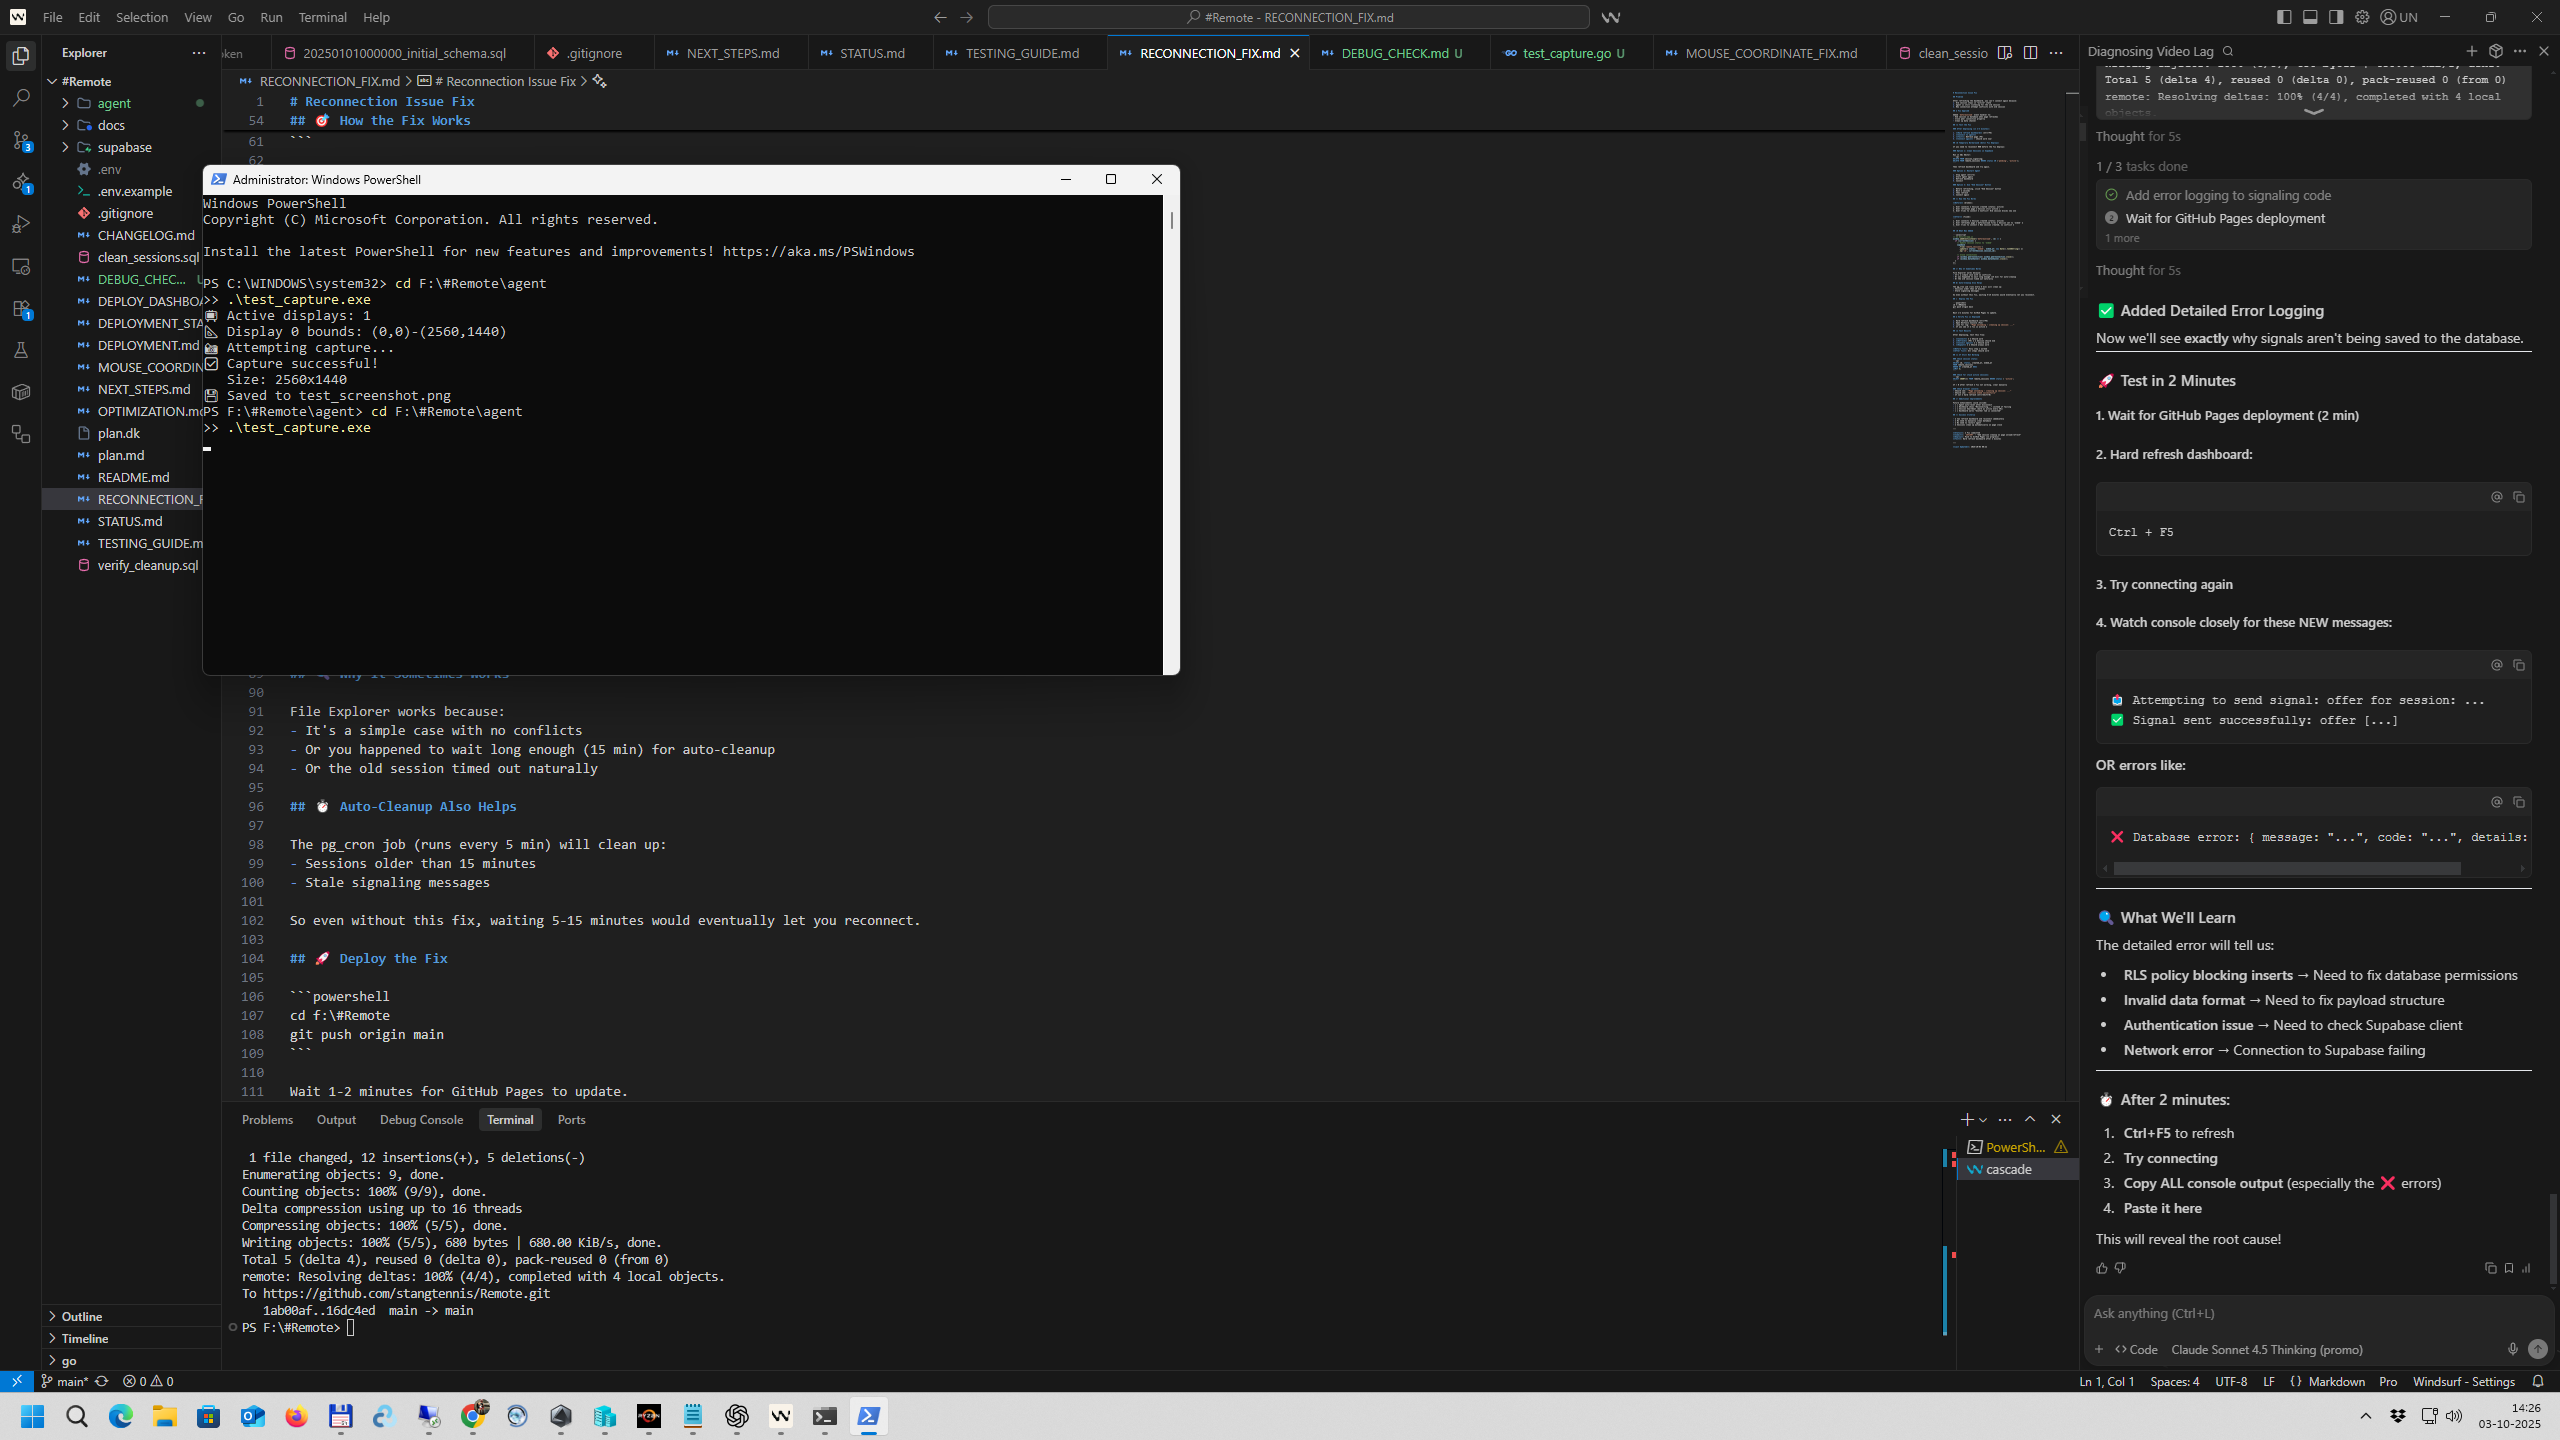
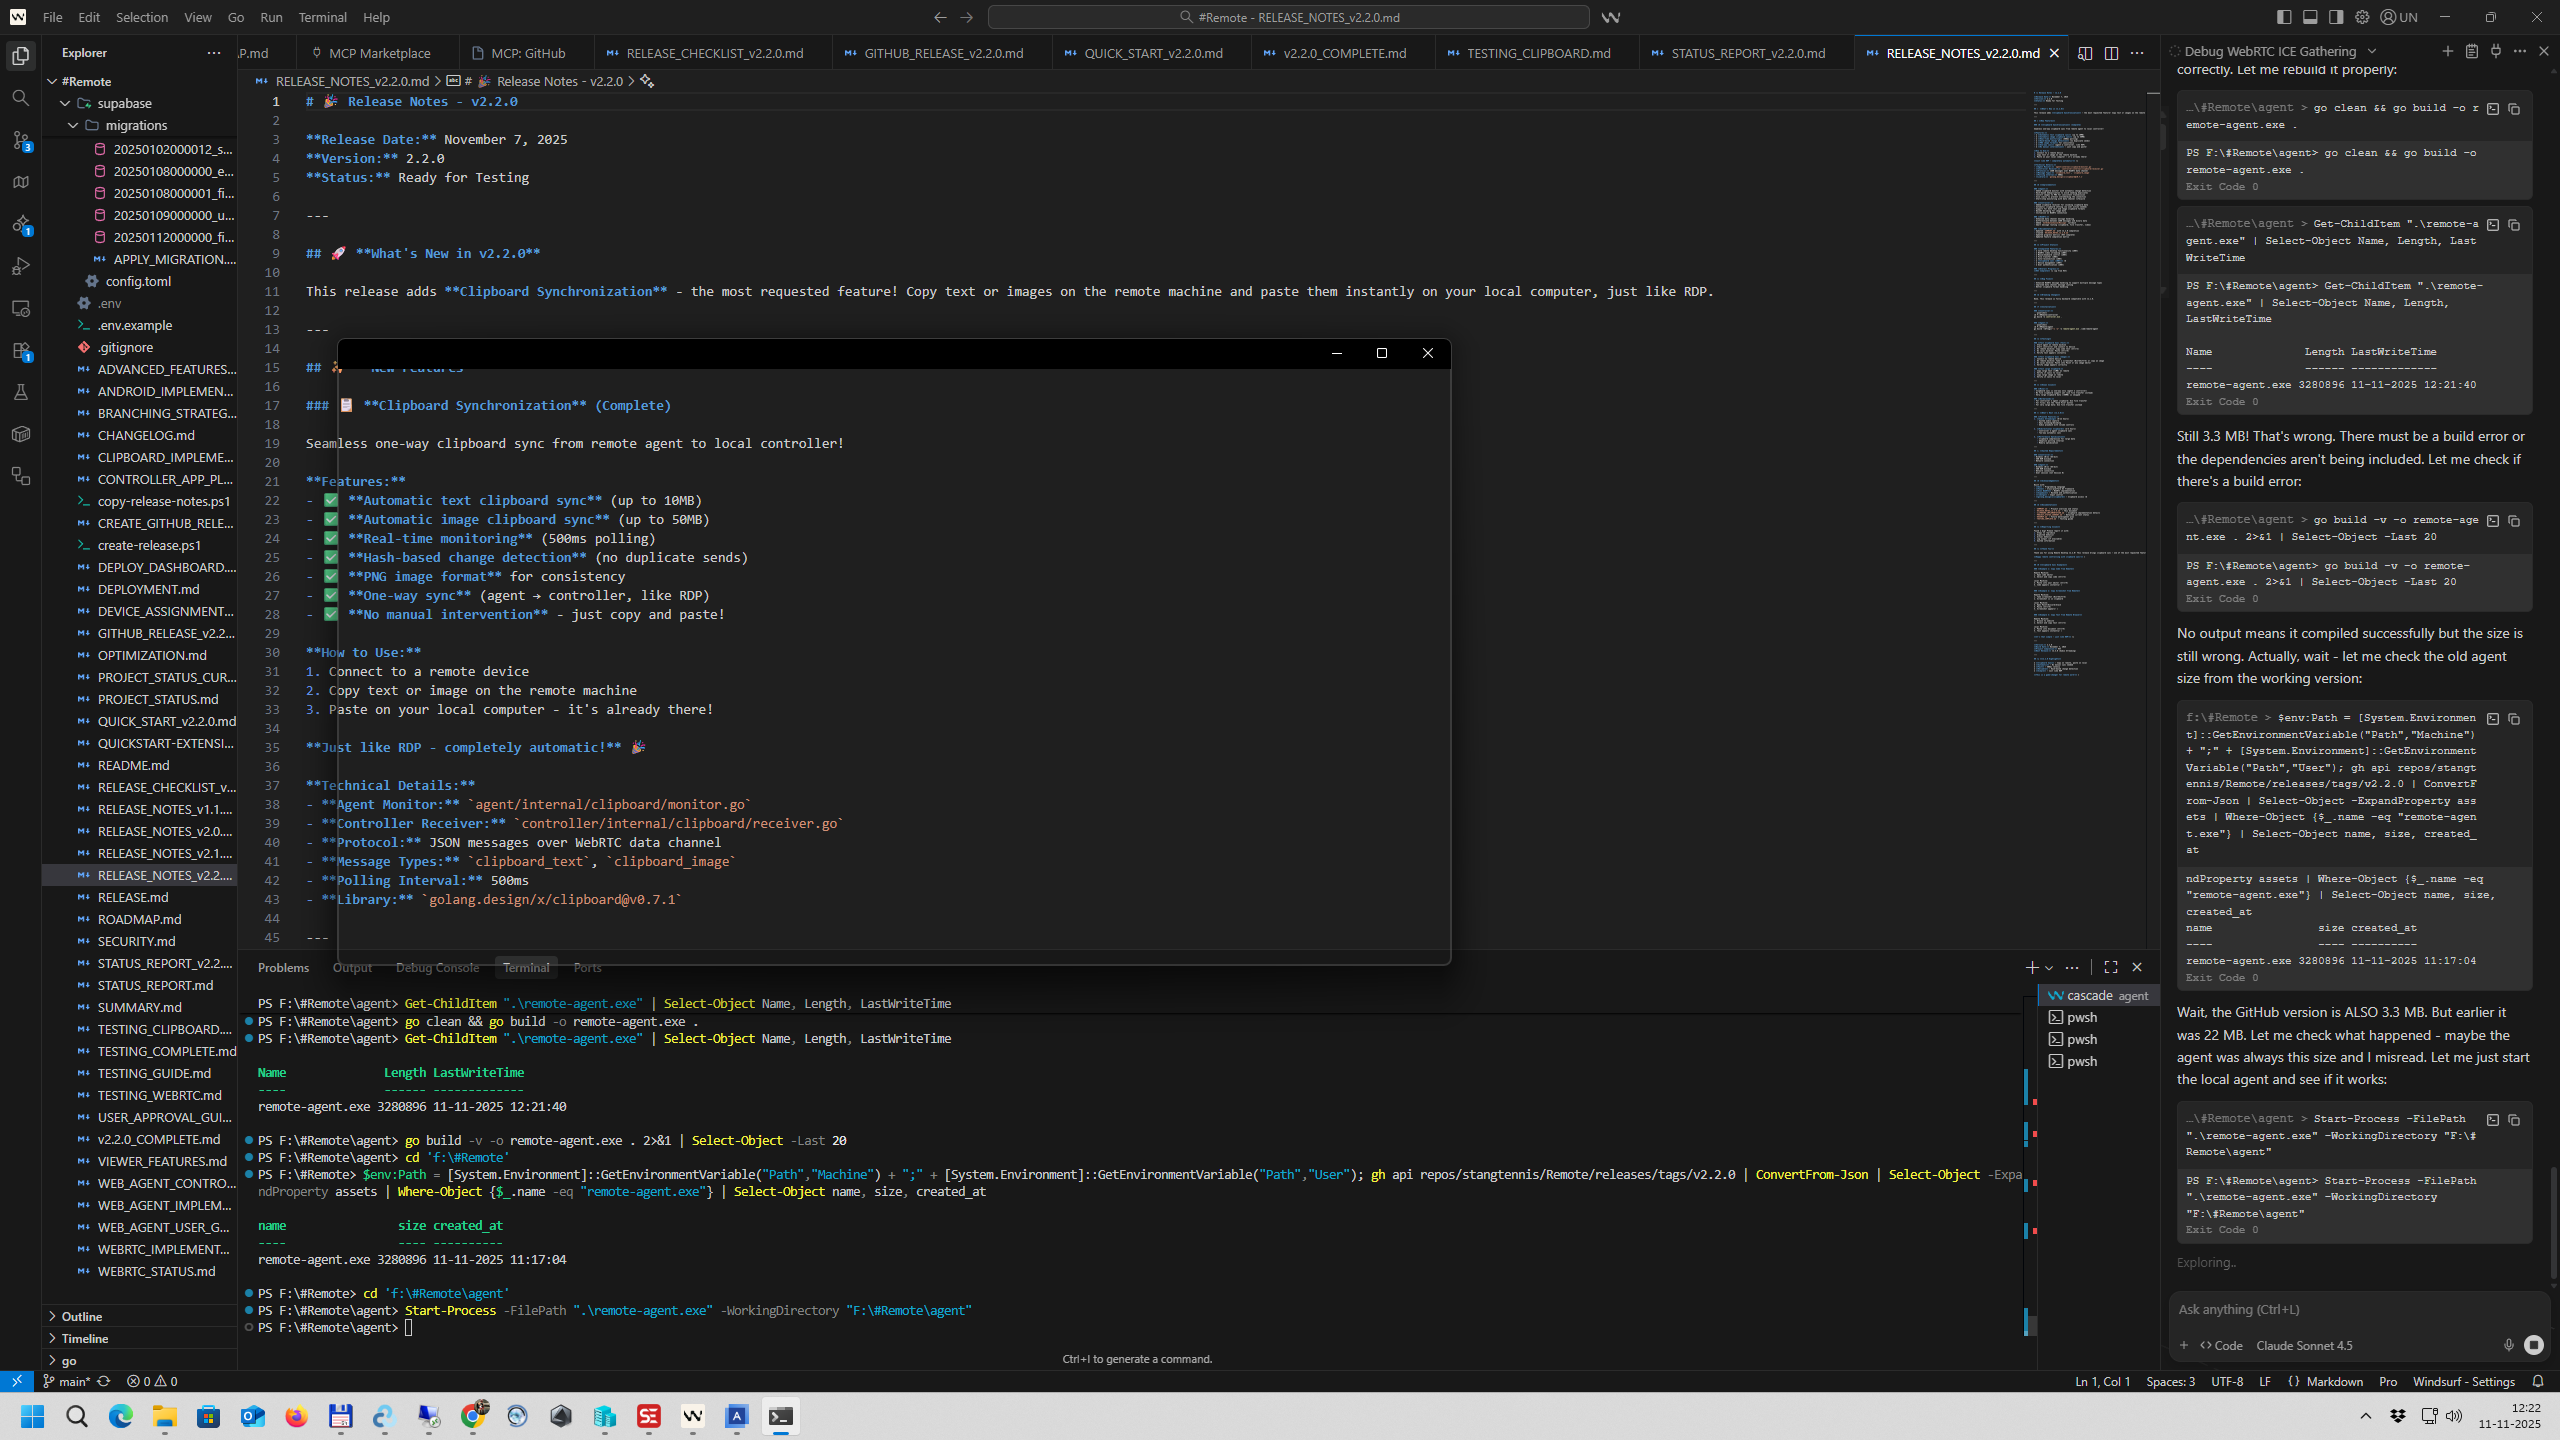
Fix WebRTC handshake: marshal answer to JSON, add data channel debug logging

diff --git a/controller/internal/webrtc/client.go b/controller/internal/webrtc/client.go
@@ -114,6 +114,29 @@ func (c *Client) CreateOffer() (string, error) {
 	}
 	c.dataChannel = dc
 	
+	// Add OnOpen handler to see when the channel opens
+	dc.OnOpen(func() {
+		log.Println("📡 Data channel OPENED (controller side)")
+	})
+	
+	// Add OnMessage handler
+	dc.OnMessage(func(msg webrtc.DataChannelMessage) {
+		log.Printf("📥 Received data on channel: %d bytes", len(msg.Data))
+		// Try to parse as JSON first (for clipboard and other messages)
+		var jsonMsg map[string]interface{}
+		if err := json.Unmarshal(msg.Data, &jsonMsg); err == nil {
+			// It's a JSON message (clipboard, file transfer, etc.)
+			if c.onDataChannelMessage != nil {
+				c.onDataChannelMessage(msg.Data)
+			}
+		} else {
+			// It's binary data (JPEG frame)
+			if c.onFrame != nil {
+				c.onFrame(msg.Data)
+			}
+		}
+	})
+	
 	log.Println("📡 Data channel created")
 
 	offer, err := c.peerConnection.CreateOffer(nil)
@@ -136,6 +159,7 @@ func (c *Client) CreateOffer() (string, error) {
 	// Get the complete offer with all ICE candidates
 	completeOffer := c.peerConnection.LocalDescription()
 	log.Printf("📊 Complete offer SDP length: %d", len(completeOffer.SDP))
+	log.Printf("📊 Full SDP:\n%s", completeOffer.SDP)
 	
 	offerJSON, err := json.Marshal(completeOffer)
 	if err != nil {
@@ -151,8 +175,12 @@ func (c *Client) SetAnswer(answerJSON string) error {
 		return fmt.Errorf("peer connection not initialized")
 	}
 
+	log.Printf("📥 Received answer length: %d", len(answerJSON))
+	log.Printf("📥 First 100 chars: %.100s", answerJSON)
+
 	var answer webrtc.SessionDescription
 	if err := json.Unmarshal([]byte(answerJSON), &answer); err != nil {
+		log.Printf("❌ Failed to unmarshal. Full answer: %s", answerJSON)
 		return fmt.Errorf("failed to unmarshal answer: %w", err)
 	}
 

diff --git a/agent/internal/webrtc/signaling.go b/agent/internal/webrtc/signaling.go
@@ -258,8 +258,13 @@ func (m *Manager) handleOffer(sessionID string, sig SignalMessage) {
 		return
 	}
 
-	// Send answer
-	m.sendAnswer(sessionID, answer.SDP)
+	// Send answer - marshal the full SessionDescription to JSON
+	answerJSON, err := json.Marshal(answer)
+	if err != nil {
+		log.Printf("Failed to marshal answer: %v", err)
+		return
+	}
+	m.sendAnswer(sessionID, string(answerJSON))
 
 	// Continue listening for ICE candidates
 	go m.listenForICE(sessionID)
@@ -406,8 +411,13 @@ func (m *Manager) handleOfferDirect(sessionID, offerSDP string) {
 		return
 	}
 
-	// Send answer back to webrtc_sessions table
-	m.sendAnswer(sessionID, answer.SDP)
+	// Send answer back to webrtc_sessions table - marshal to JSON
+	answerJSON, err := json.Marshal(answer)
+	if err != nil {
+		log.Printf("Failed to marshal answer: %v", err)
+		return
+	}
+	m.sendAnswer(sessionID, string(answerJSON))
 }
 
 func (m *Manager) sendAnswer(sessionID, sdp string) {
